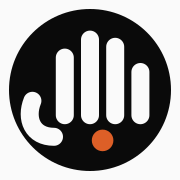
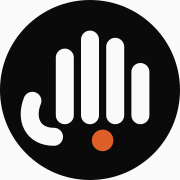
feat(brand): fill the viewBox with the coin and end the wordmark on a period
Growing the coin's radius from 45 to 50 makes it fill its box, which gives the
enlargement the 37 px header box did. The header returns to 32 px. The accent
dot after the wordmark becomes a real period glyph scaled 1.5× from the
baseline. A larger type role would have grown the header, which is why it scales.

### Changed

1. The coin's radius is 50 in `icon.svg` and `BrandSymbol`, and `apple-icon.png` is re-rendered.
2. The header symbol box returns from 37 px to 32 px.
3. The wordmark's accent dot is a `--brand-accent` period instead of a CSS circle; the build test expects `hancrafted.`.

Source: Han's request to set the coin radius to 50 and use a slightly larger period for the accent dot

Changed region(s): [[0.0, 0.0, 1.0, 1.0]]

diff --git a/src/components/site-brand.tsx b/src/components/site-brand.tsx
@@ -14,10 +14,12 @@ export async function SiteBrand({ locale }: { locale: Locale }) {
       data-testid="brand"
       className="flex items-center gap-2.5 rounded-md outline-none focus-visible:ring-[3px] focus-visible:ring-ring/50"
     >
-      <BrandSymbol className="size-9.25 shrink-0" />
+      <BrandSymbol className="size-8 shrink-0" />
       <span className="text-body font-semibold tracking-tight">
         {t('name')}
-        <span aria-hidden className="ml-0.5 inline-block size-1.5 rounded-full bg-brand-accent" />
+        <span aria-hidden className="inline-block origin-[0_72%] scale-150 text-brand-accent">
+          .
+        </span>
       </span>
     </Link>
   );

diff --git a/tests/post-build/brand-symbol.build.test.ts b/tests/post-build/brand-symbol.build.test.ts
@@ -59,12 +59,12 @@ describe('brand symbol', () => {
   it.each(EXPORTED_PAGES)('$url renders the brand symbol beside the name in the header brand', ({ url }) => {
     // ARRANGE
     const $ = exportedPage(url);
-    const siteName = 'hancrafted';
+    const wordmark = 'hancrafted.';
     // ACT
     const brand = $('[data-testid="brand"]');
     const symbols = brand.find('svg[data-testid="brand-symbol"][aria-hidden="true"]');
     // ASSERT
     expect(symbols).toHaveLength(1);
-    expect(brand.text().trim()).toBe(siteName);
+    expect(brand.text().trim()).toBe(wordmark);
   });
 });

diff --git a/src/components/brand-symbol.tsx b/src/components/brand-symbol.tsx
@@ -6,7 +6,7 @@
 export function BrandSymbol({ className }: { className?: string }) {
   return (
     <svg viewBox="0 0 100 100" aria-hidden="true" focusable="false" data-testid="brand-symbol" className={className}>
-      <circle cx="50" cy="50" r="45" fill="var(--foreground)" />
+      <circle cx="50" cy="50" r="50" fill="var(--foreground)" />
       <g fill="none" stroke="var(--background)" strokeWidth="10" strokeLinecap="round" strokeLinejoin="round">
         <path d="M36 64V32" />
         <path d="M50 64V22" />
